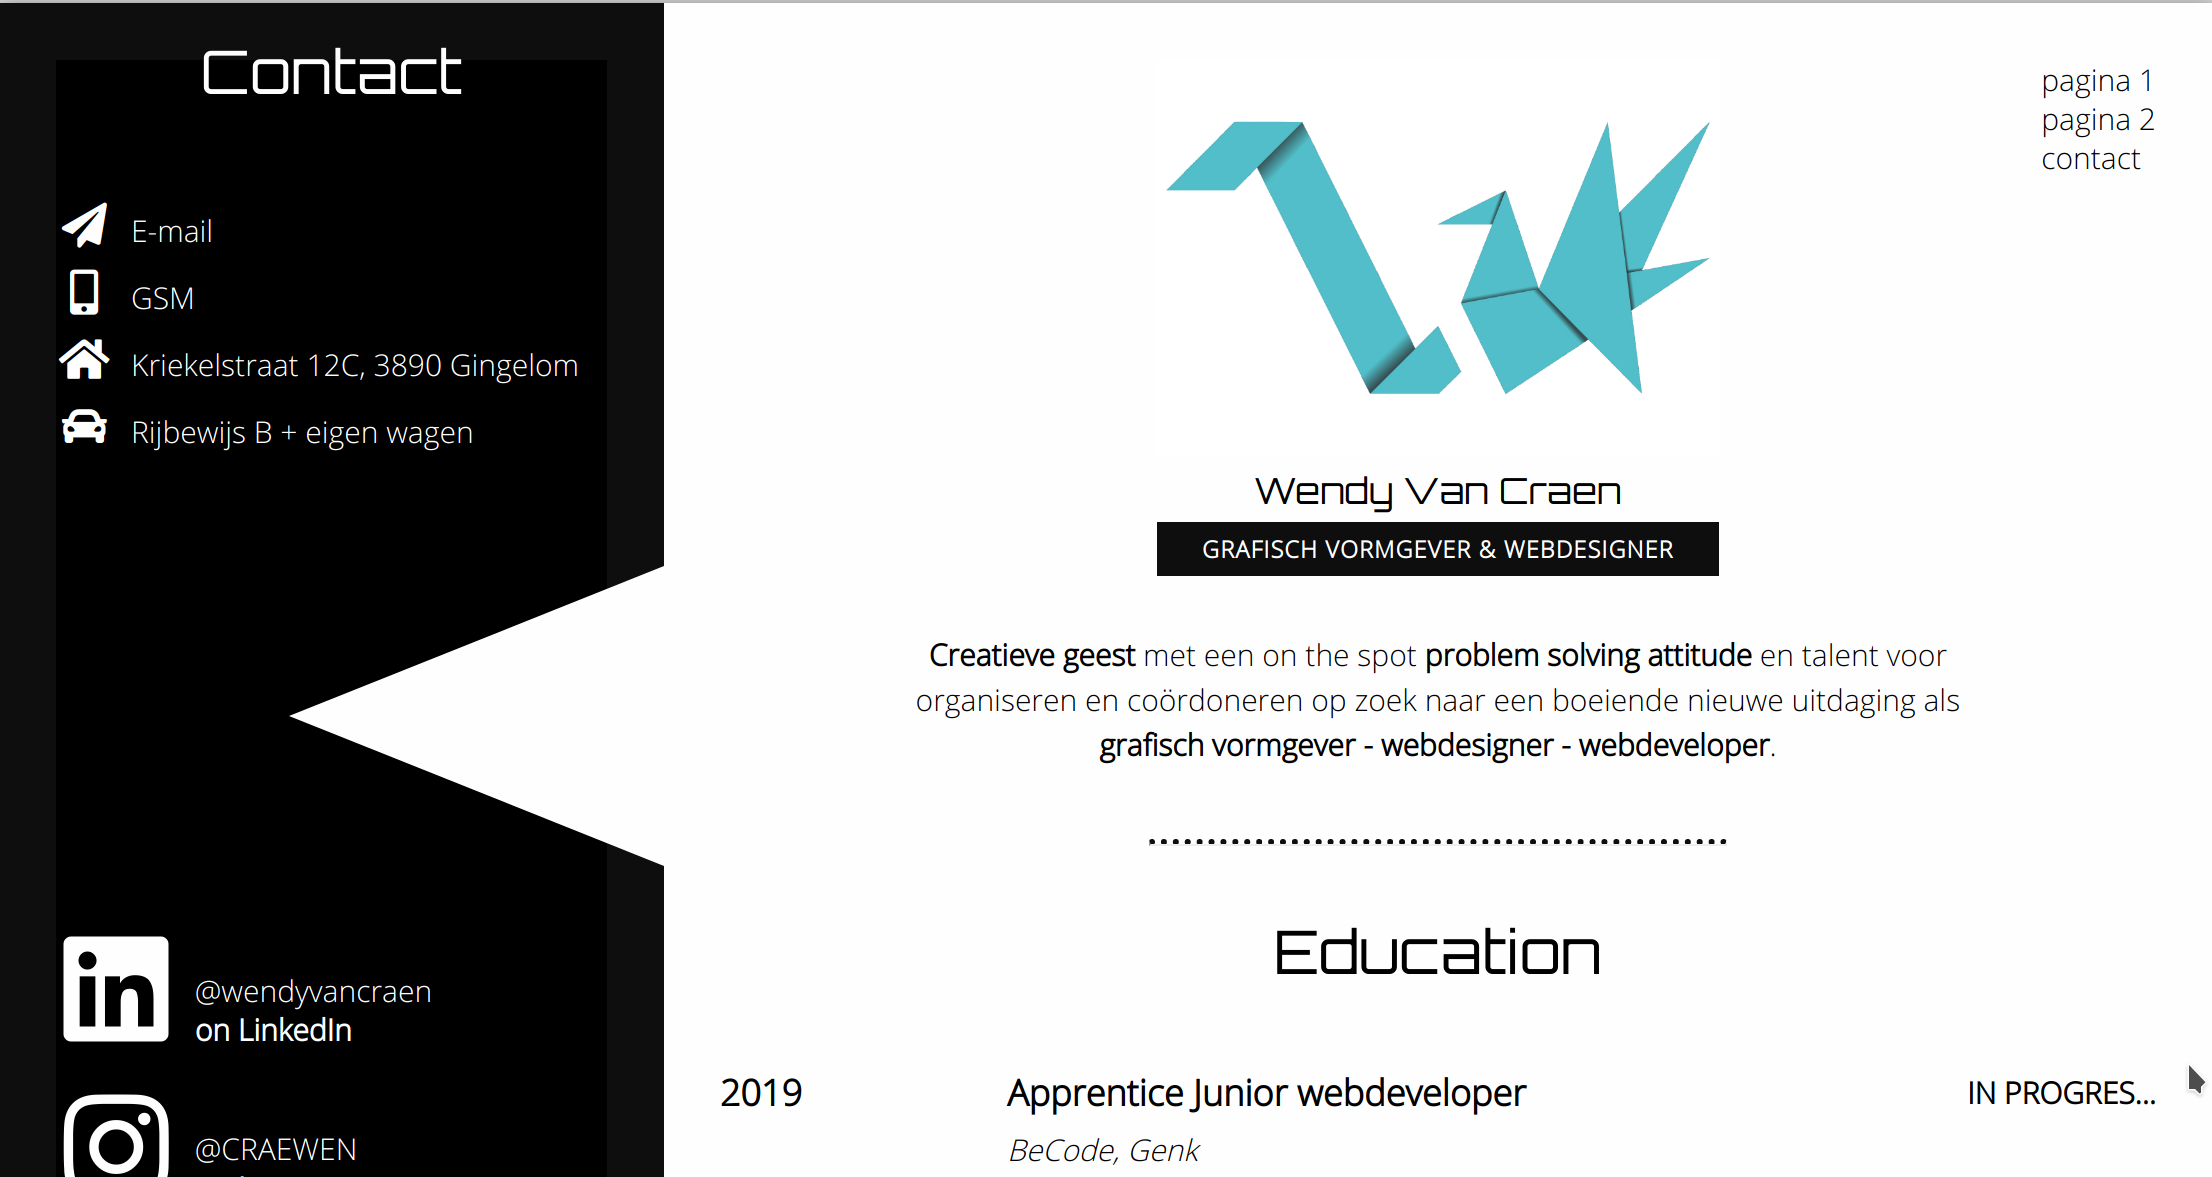
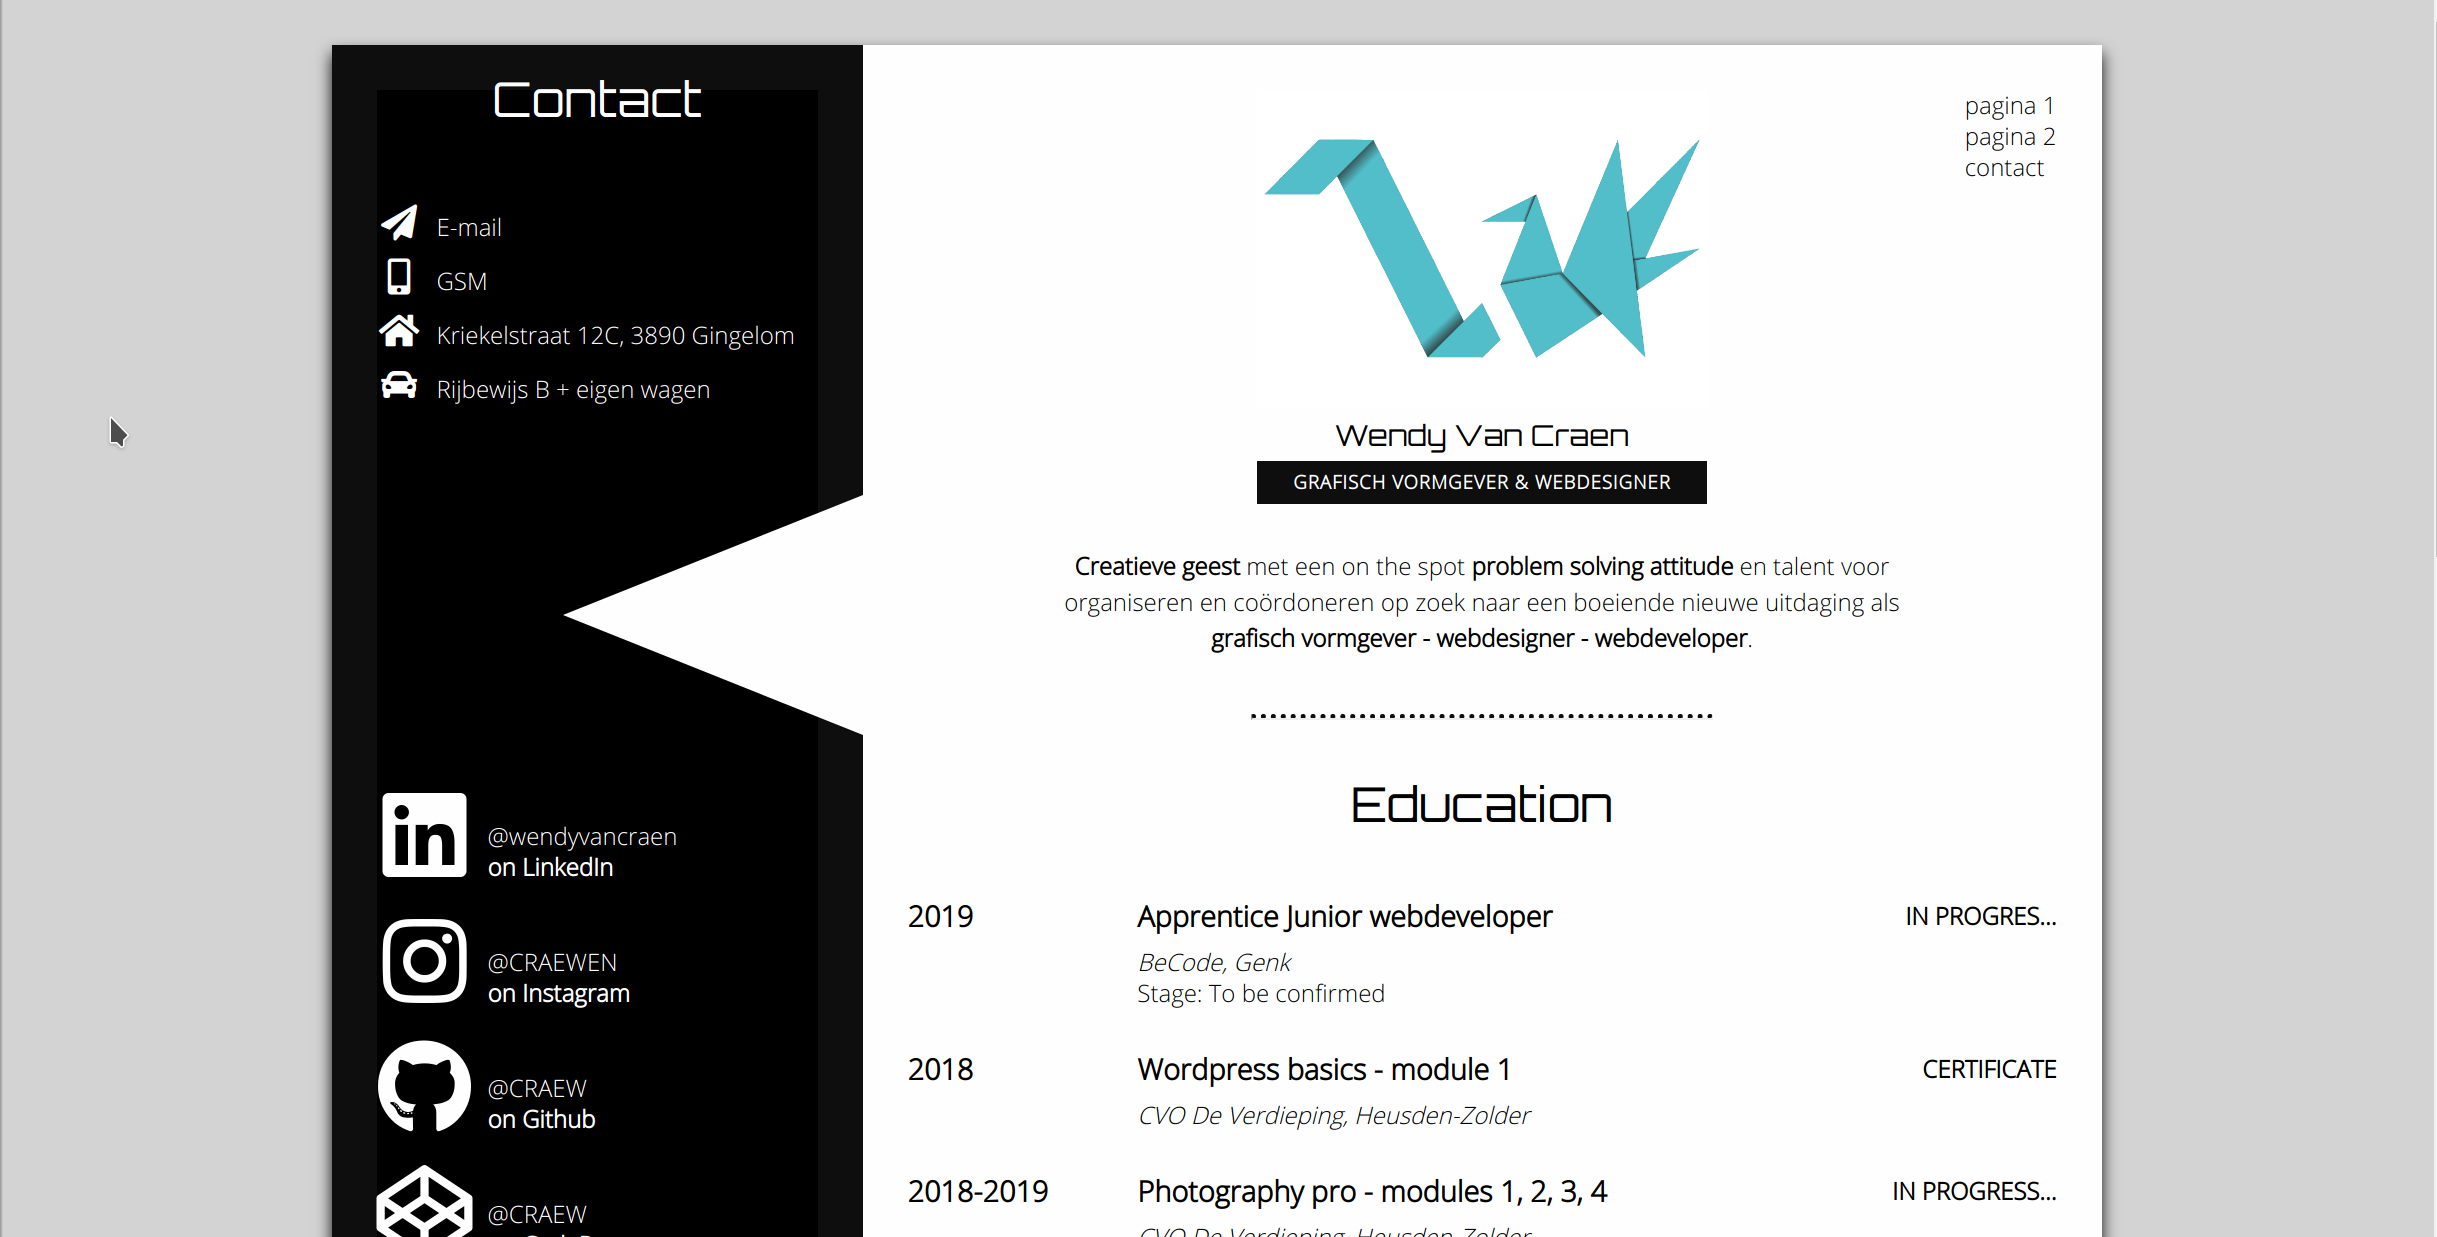
update design mobile

diff --git a/public_html/sass/style.scss b/public_html/sass/style.scss
@@ -5,18 +5,15 @@
 // MOBILE FIRST DESIGN
 body {
     width: 100vw;
-    
     height: auto;
     font-size: $font-size;
-    font-family: $body-font;
-    background-image: linear-gradient(to top right, $header-hex, $background-hex, $dark-bg-hex);
-    background-size: cover;
-    background-repeat: no-repeat;
-    color: $light-txt;
+    font-family: $main-font;
 
     .container {
-        margin-top: $height * 2;
+        padding-top: $height * 2;
         min-height: 80vh;
+        background: $light-txt;
+        color: $dark-bg-hex;
     }
 
     h1,
@@ -25,21 +22,24 @@ body {
     h4,
     h5,
     h6 {
-        font-family: $title-font;
+        font-family: $main-font;
     }
 
     h1 {
-        font-size: $font-size * 3;
+        font-size: $font-size * 2;
         text-align: center;
         margin: $height $height;
+        line-height: $line-height * 2;
     }
 
     h2 {
-        font-size: $font-size * 1.2;
+        font-size: $font-size * 2;
+        text-align: center;
+        margin-bottom: $height;
     }
 
     strong {
-        font-weight: bold;
+        font-weight: 700;
     }
 
     a {
@@ -54,22 +54,30 @@ body {
 
 // HEADER
 header {
-    background-color: $header-hex;
+    background-color: $light-txt;
     width: 100vw;
-    height: $height;
+    height: $height * 1.5;
     position: fixed;
     top: 0;
     z-index: 100;
+    color: $dark-bg-hex;
 
     .mobile-header {
         display: flex;
         justify-content: space-between;
-        align-items: center;
+        padding-top: $height * 0.5;
+        margin-left: $height * 0.5;
+        margin-right: $height * 0.5;
+
+        i {
+            font-size: 2em;
+        }
     }
 
     .logo {
         height: $height;
         line-height: $height;
+        
 
         img {
             width: auto;
@@ -79,7 +87,7 @@ header {
 }
 
 .dropdown-menu-mobile {
-    background-color: $dark-bg-hex;
+    // background-color: $dark-bg-hex;
     width: $height;
     height: $height;
     line-height: $height;
@@ -87,7 +95,8 @@ header {
 }
 
 .main-nav {
-    background-color: $dark-bg-hex;
+    // background-color: $dark-bg-hex;
+    background-color: $light-txt;
     height: 100vh;
 
     ul {
@@ -97,17 +106,22 @@ header {
         flex-direction: column;
         align-items: center;
 
+        font-size: $font-size * 1.8;
+
         li {
             width: 100%;
             text-align: center;
+            line-height: $height;
+            margin-top: $height * 0.2;
+        }
+        
+        li:first-of-type {
+            margin-top: $height;
         }
 
         li a {
             width: 100%;
-            display: inline-block;
-            font-size: $font-size;
-            line-height: $height;
-            margin-top: $height;
+            display: inline-block;  
         }
 
         li>.active {
@@ -118,21 +132,30 @@ header {
 }
 
 // BODY [PROJECTS]
+.projects {
+    background-image: linear-gradient(to top right, $header-hex, $background-hex, $dark-bg-hex);
+    background-size: cover;
+    background-repeat: no-repeat;
+    color: $light-txt;
+    padding: $height $height;
+}
+
+
 .project-article {
     margin-bottom: $height;
     margin-left: 3px;
     margin-right: 3px;
     padding-bottom: $height;
-    border: 2px solid $light-hex;
-    border-radius: 10px;
-    background-image: linear-gradient(to bottom left, $header-hex, $background-hex, $dark-bg-hex);
+    background: $light-txt;
     overflow: hidden;
+    color: $dark-bg-hex;
+    box-shadow: 0px 10px 28px 0 black;
 
     .project-img-title {
         position: relative;
         background: $light-txt;
 
-        h2 {
+        h3 {
             position: absolute;
             bottom: 0;
             left: 0;
@@ -201,7 +224,8 @@ footer {
     height: $height;
     display: flex;
     align-items: center;
-    justify-content: center
+    justify-content: center;
+    color: $light-txt;
 }
 
 
@@ -256,6 +280,4 @@ footer {
             width: 40%;
         }
     }
-
-
 }

diff --git a/public_html/css/style.css b/public_html/css/style.css
@@ -65,14 +65,12 @@ body {
   height: auto;
   font-size: 16px;
   font-family: "Open Sans", sans-serif;
-  background-image: linear-gradient(to top right, #18A3A8, #0B4D4F, #062829);
-  background-size: cover;
-  background-repeat: no-repeat;
-  color: #fefefe;
 }
 body .container {
-  margin-top: 100px;
+  padding-top: 100px;
   min-height: 80vh;
+  background: #fefefe;
+  color: #062829;
 }
 body h1,
 body h2,
@@ -80,18 +78,21 @@ body h3,
 body h4,
 body h5,
 body h6 {
-  font-family: "Orbitron", sans-serif;
+  font-family: "Open Sans", sans-serif;
 }
 body h1 {
-  font-size: 48px;
+  font-size: 32px;
   text-align: center;
   margin: 50px 50px;
+  line-height: 41.6px;
 }
 body h2 {
-  font-size: 19.2px;
+  font-size: 32px;
+  text-align: center;
+  margin-bottom: 50px;
 }
 body strong {
-  font-weight: bold;
+  font-weight: 700;
 }
 body a {
   text-decoration: none;
@@ -103,17 +104,23 @@ body a {
 }
 
 header {
-  background-color: #18A3A8;
+  background-color: #fefefe;
   width: 100vw;
-  height: 50px;
+  height: 75px;
   position: fixed;
   top: 0;
   z-index: 100;
+  color: #062829;
 }
 header .mobile-header {
   display: flex;
   justify-content: space-between;
-  align-items: center;
+  padding-top: 25px;
+  margin-left: 25px;
+  margin-right: 25px;
+}
+header .mobile-header i {
+  font-size: 2em;
 }
 header .logo {
   height: 50px;
@@ -125,7 +132,6 @@ header .logo img {
 }
 
 .dropdown-menu-mobile {
-  background-color: #062829;
   width: 50px;
   height: 50px;
   line-height: 50px;
@@ -133,7 +139,7 @@ header .logo img {
 }
 
 .main-nav {
-  background-color: #062829;
+  background-color: #fefefe;
   height: 100vh;
 }
 .main-nav ul {
@@ -142,21 +148,32 @@ header .logo img {
   display: flex;
   flex-direction: column;
   align-items: center;
+  font-size: 28.8px;
 }
 .main-nav ul li {
   width: 100%;
   text-align: center;
+  line-height: 50px;
+  margin-top: 10px;
+}
+.main-nav ul li:first-of-type {
+  margin-top: 50px;
 }
 .main-nav ul li a {
   width: 100%;
   display: inline-block;
-  font-size: 16px;
-  line-height: 50px;
-  margin-top: 50px;
 }
 .main-nav ul li > .active {
   background-color: #20DFE6;
   color: #062829;
+}
+
+.projects {
+  background-image: linear-gradient(to top right, #18A3A8, #0B4D4F, #062829);
+  background-size: cover;
+  background-repeat: no-repeat;
+  color: #fefefe;
+  padding: 50px 50px;
 }
 
 .project-article {
@@ -164,16 +181,16 @@ header .logo img {
   margin-left: 3px;
   margin-right: 3px;
   padding-bottom: 50px;
-  border: 2px solid #20DFE6;
-  border-radius: 10px;
-  background-image: linear-gradient(to bottom left, #18A3A8, #0B4D4F, #062829);
+  background: #fefefe;
   overflow: hidden;
+  color: #062829;
+  box-shadow: 0px 10px 28px 0 black;
 }
 .project-article .project-img-title {
   position: relative;
   background: #fefefe;
 }
-.project-article .project-img-title h2 {
+.project-article .project-img-title h3 {
   position: absolute;
   bottom: 0;
   left: 0;
@@ -228,6 +245,7 @@ footer {
   display: flex;
   align-items: center;
   justify-content: center;
+  color: #fefefe;
 }
 
 @media only screen and (min-width: 960px) {

diff --git a/public_html/sass/_typography.scss b/public_html/sass/_typography.scss
@@ -3,10 +3,11 @@
 // font-family: 'Orbitron', sans-serif;
 // font-family: 'Open Sans', sans-serif;
 
-$title-font: 'Orbitron', sans-serif;
-$body-font: 'Open Sans', sans-serif;
+$special-font: 'Orbitron', sans-serif;
+$main-font: 'Open Sans', sans-serif;
 
 $font-size: 16px;
 
 // white spaces
 $height: 50px;
+$line-height: $font-size * 1.3;

diff --git a/app/model/portfoliomodel.php b/app/model/portfoliomodel.php
@@ -11,7 +11,7 @@ class PortfolioModel {
 
         try {
 
-            $this->pdo = new PDO('mysql:host=127.0.0.1;dbname=wendyvancraen','root','');
+            $this->pdo = new PDO('mysql:host=127.0.0.1;dbname=wendyvancraen','root','09wendy82');
 
             } catch (PDOException $e) {
                 die($e->getMessage());
